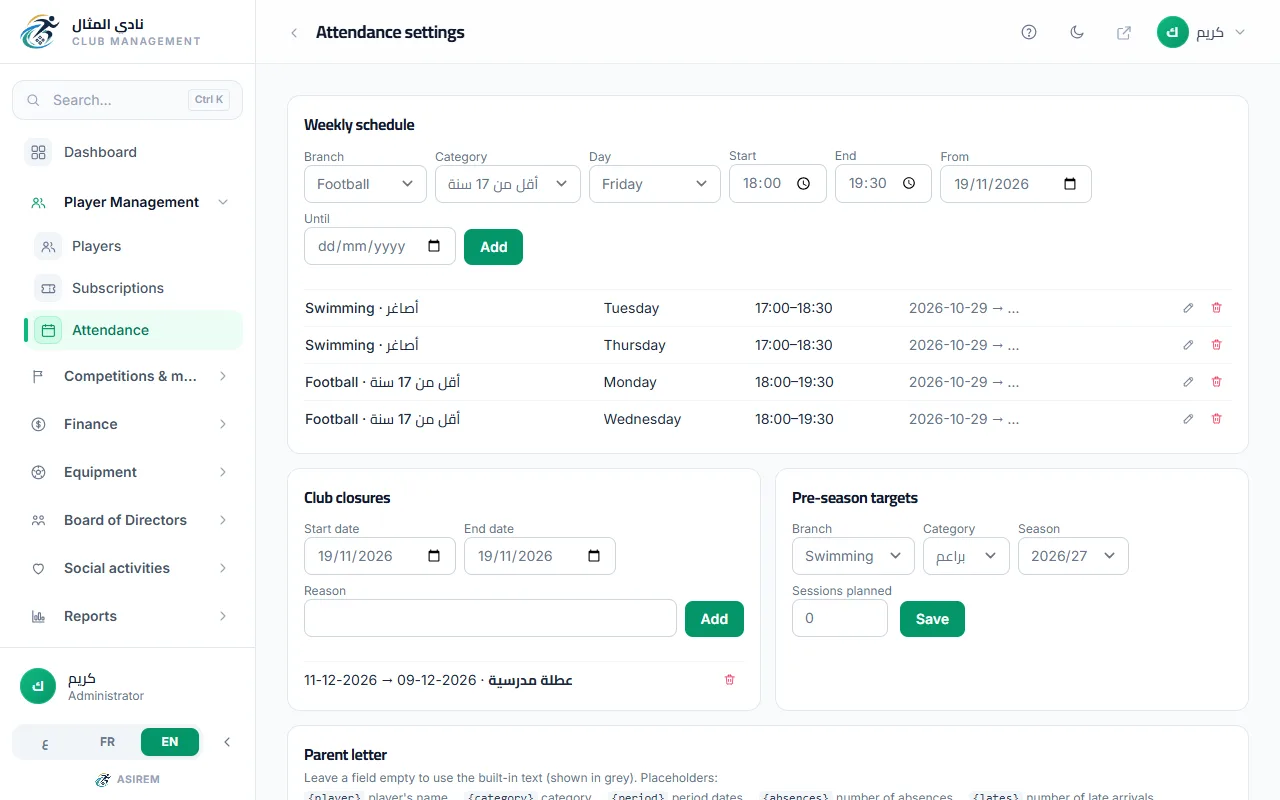
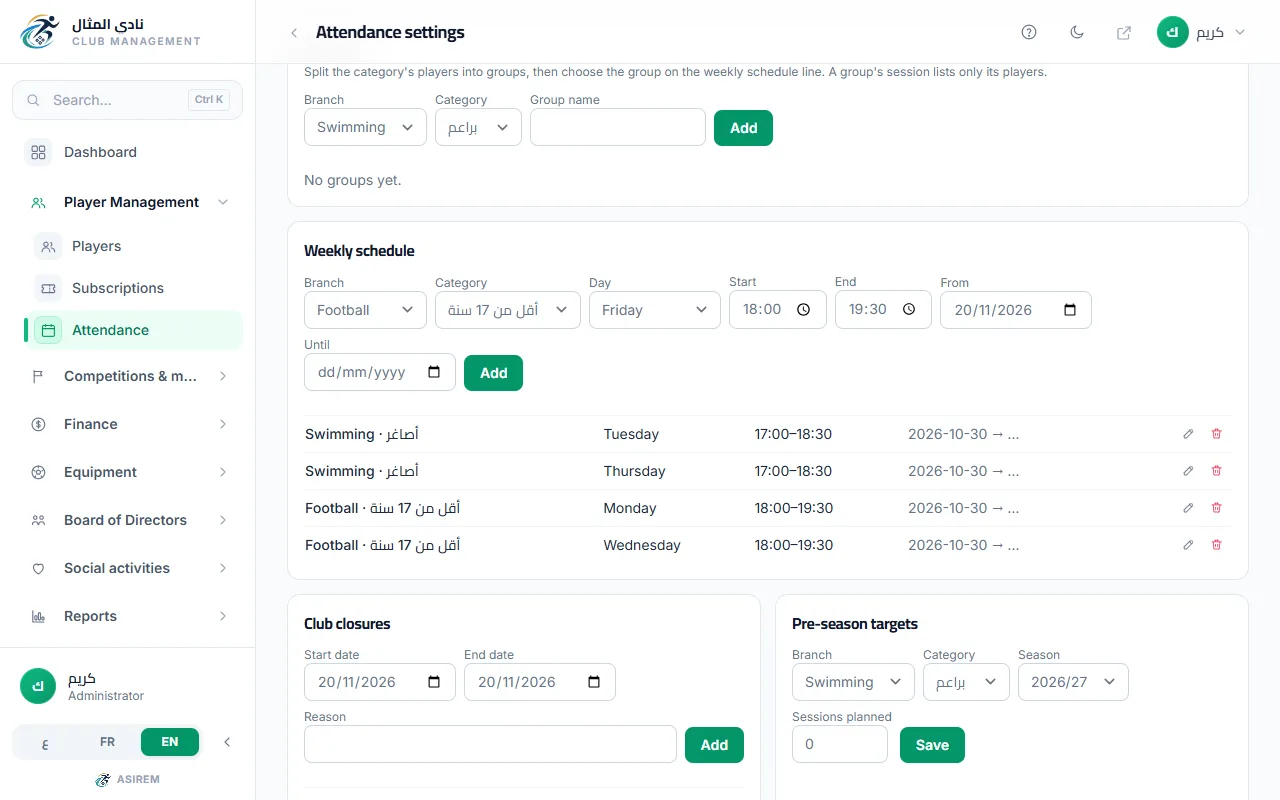
docs(help): training groups in the timetable article

diff --git a/resources/help/ar/attendance/timetable.md b/resources/help/ar/attendance/timetable.md
@@ -2,7 +2,7 @@
 title: كيف أضبط التوقيت الأسبوعي وفترات الإغلاق
 summary: اكتب أيام التدريب وساعاته مرة واحدة، فتظهر الحصص وحدها في التقويم. وأضف أيام إغلاق النادي.
 pages: [attendance.settings]
-keywords: [التوقيت الأسبوعي, جدول التدريب, أيام التدريب, توقيت, عطلة, إغلاق النادي, فترات الإغلاق, عطلة مدرسية, التحضير البدني, عدد الحصص, إعدادات الحضور]
+keywords: [التوقيت الأسبوعي, جدول التدريب, أيام التدريب, توقيت, عطلة, إغلاق النادي, فترات الإغلاق, عطلة مدرسية, التحضير البدني, عدد الحصص, الأفواج, فوج, إعدادات الحضور]
 related: [attendance/take-attendance, attendance/codes-rules]
 ---
 
@@ -46,6 +46,8 @@ related: [attendance/take-attendance, attendance/codes-rules]
 الإغلاق لا يحذف حصة سُجّل حضورها، ولا حصة أضفتها بيدك.
 
 في آخر كل سطر من «التوقيت الأسبوعي» زر قلم يغيّر السطر، وزر سلة مهملات يحذفه. في الحالتين، تُحذف حصصه القادمة التي لم يُسجَّل حضورها. بعد التغيير، يضع التطبيق حصص السطر الجديدة.
+
+فئة تتدرّب في أكثر من فوج؟ في بطاقة «الأفواج»، في الصفحة نفسها، أضف فوجًا لكل مجموعة. ثم اضغط زر «لاعبو الفوج» في سطر الفوج، وضع علامة على لاعبيه. بعدها يظهر اختيار «الفوج» في بطاقة «التوقيت الأسبوعي»: اختر الفوج لكل سطر. حصة الفوج تعرض لاعبيه فقط. اللاعب الذي ليس في أي فوج لا يظهر في حصص الأفواج، والبطاقة تذكّرك بعدد اللاعبين الذين بلا فوج.
 
 حذف فترة إغلاق بزر سلة المهملات يعيد حصص تلك الأيام إلى التقويم.
 

diff --git a/resources/help/fr/attendance/timetable.md b/resources/help/fr/attendance/timetable.md
@@ -2,7 +2,7 @@
 title: Comment régler l'horaire hebdomadaire et les fermetures
 summary: Saisissez une seule fois les jours et les heures d'entraînement : les séances apparaissent seules dans le calendrier. Ajoutez aussi les jours de fermeture du club.
 pages: [attendance.settings]
-keywords: [horaire hebdomadaire, planning d'entraînement, jours d'entraînement, horaire, vacances, fermeture du club, fermetures, vacances scolaires, préparation, nombre de séances, réglages des présences]
+keywords: [horaire hebdomadaire, planning d'entraînement, jours d'entraînement, horaire, vacances, fermeture du club, fermetures, vacances scolaires, préparation, nombre de séances, groupes, groupe, réglages des présences]
 related: [attendance/take-attendance, attendance/codes-rules]
 ---
 
@@ -46,6 +46,8 @@ Dans la carte « Fermetures du club », cliquez sur « Ajouter ». Le message «
 Une fermeture ne supprime pas une séance dont les présences sont saisies, ni une séance ajoutée à la main.
 
 Au bout de chaque ligne de « Horaire hebdomadaire », un bouton crayon modifie la ligne, et un bouton corbeille la supprime. Dans les deux cas, ses séances à venir sans présences saisies sont supprimées. Après une modification, l'application place les séances de la nouvelle ligne.
+
+Une catégorie s'entraîne en plusieurs groupes ? Dans la carte « Groupes », sur la même page, ajoutez un groupe pour chacun. Puis appuyez sur le bouton « Joueurs du groupe » de sa ligne et cochez ses joueurs. Le choix « Groupe » apparaît alors dans la carte « Horaire hebdomadaire » : choisissez le groupe de chaque ligne. La séance d'un groupe n'affiche que ses joueurs. Un joueur qui n'est dans aucun groupe n'apparaît pas dans les séances des groupes ; la carte vous rappelle combien de joueurs sont sans groupe.
 
 Supprimer une fermeture avec le bouton corbeille remet les séances de ces jours dans le calendrier.
 
